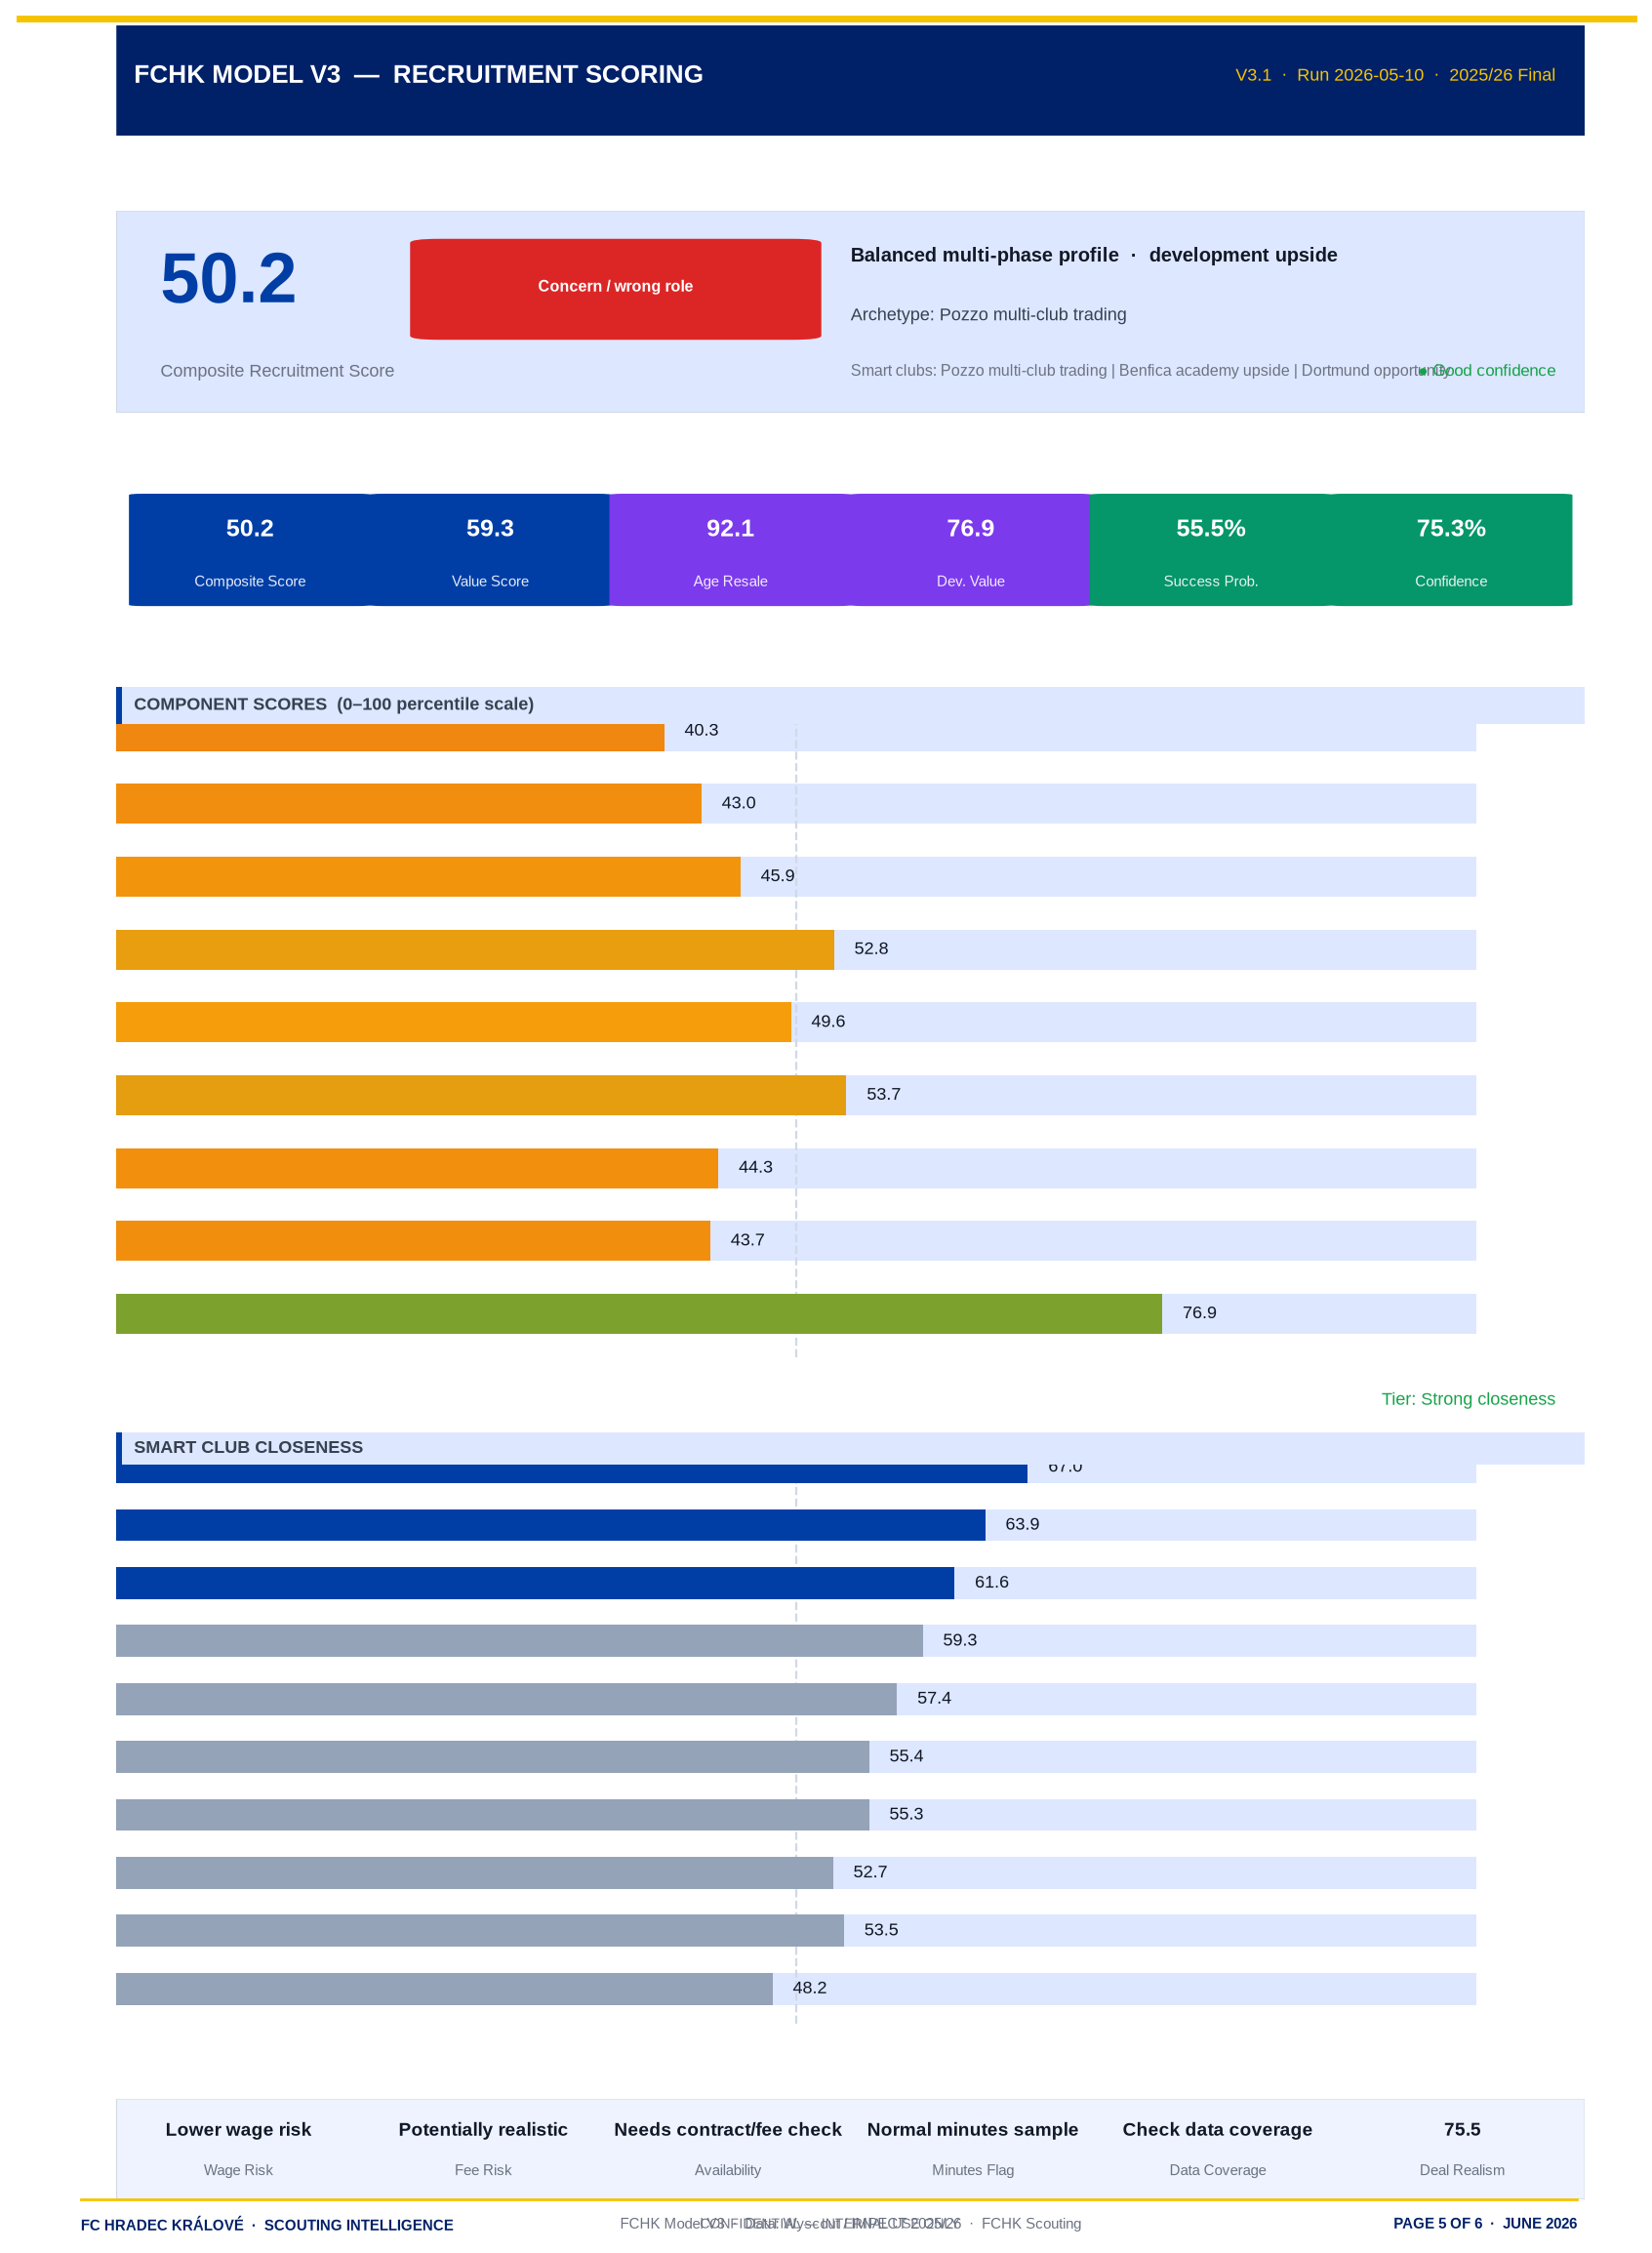
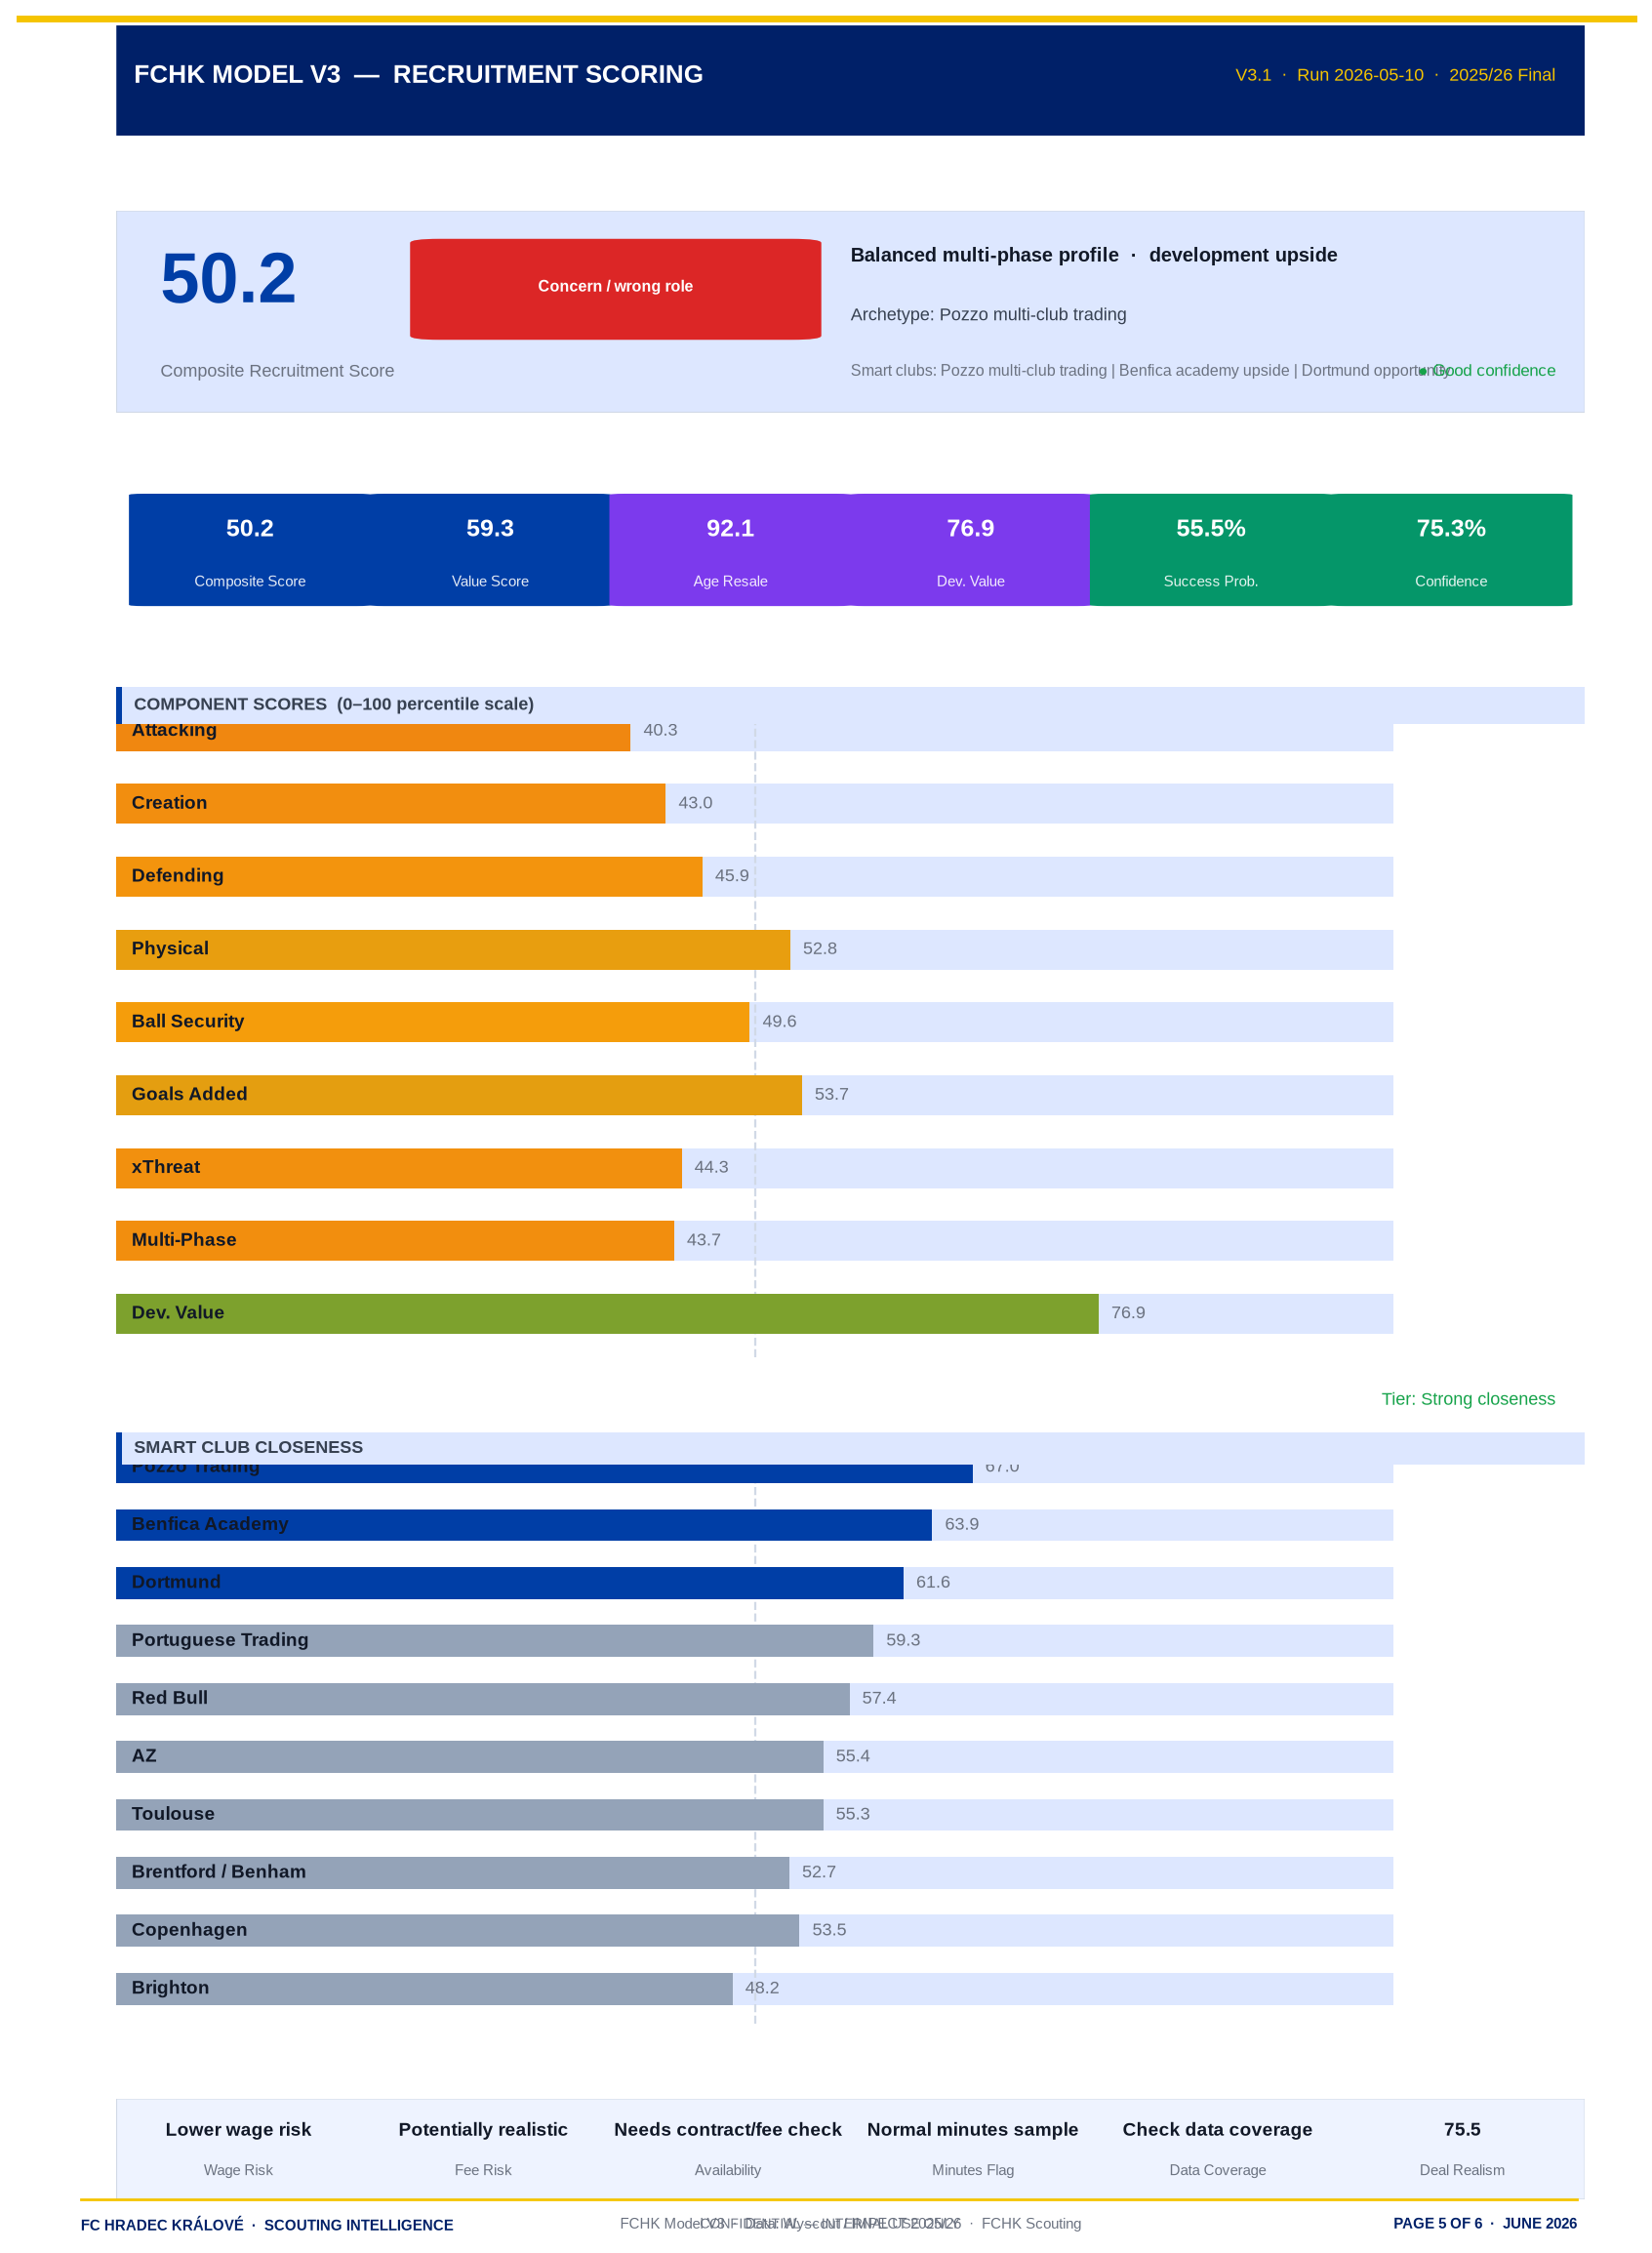
Fix page 5 bar chart labels — draw inside tracks, not as y-tick labels
Labels were rendering as matplotlib y-axis tick labels outside the figure
boundary (left margin 0.06 too narrow). Replace set_yticklabels() with
text() at x=1.2 in data space (inside the background track), fontweight bold.
Score values moved to x=v+1.0. Same fix applied to both Component Scores
and Smart Club Closeness bar charts. xlim extended to 115 to accommodate.

Claude-Session: https://claude.ai/code/session_01AwRaDxaXMKzntafHnAeRgn

diff --git a/build_barat_full_report.py b/build_barat_full_report.py
@@ -812,15 +812,19 @@ def make_page5(model: dict) -> plt.Figure:
     bar_colours = [COMP_CMAP(v / 100) for v in vals]
     for i, (y, v, c) in enumerate(zip(y_pos, vals, bar_colours)):
         ax_comp.barh(y, v, height=bar_h, color=c, zorder=2)
-        ax_comp.text(v + 1.5, y, f"{v:.1f}", va="center", fontsize=6.5, color=TEXT)
+        # Label inside the track (always readable, no margin needed)
+        ax_comp.text(1.2, y, labels[i], va="center", ha="left",
+                     fontsize=7, color=TEXT, zorder=4, fontweight="bold")
+        # Score value at the right end
+        ax_comp.text(v + 1.0, y, f"{v:.1f}", va="center", ha="left",
+                     fontsize=6.5, color=TEXT_DIM, zorder=4)
 
-    ax_comp.set_yticks(y_pos)
-    ax_comp.set_yticklabels(labels, fontsize=7, color=TEXT)
-    ax_comp.set_xlim(0, 108)
+    ax_comp.set_yticks([])
+    ax_comp.set_xlim(0, 115)
     ax_comp.set_ylim(-0.6, n_bars - 0.4)
     ax_comp.axvline(50, color=BORDER, lw=0.8, ls="--", zorder=1)
     ax_comp.tick_params(axis="x", labelsize=6, colors=TEXT_DIM)
-    ax_comp.set_xlabel("Score (0–100)", fontsize=6.5, color=TEXT_DIM)
+    ax_comp.set_xlabel("Score (0–100)  ·  dashed line = average (50)", fontsize=6.5, color=TEXT_DIM)
     for sp in ax_comp.spines.values():
         sp.set_visible(False)
     ax_comp.tick_params(axis="y", length=0)
@@ -847,11 +851,13 @@ def make_page5(model: dict) -> plt.Figure:
     for i, (y, v, (key, lbl)) in enumerate(zip(sc_y, sc_vals, SMART_CLUBS)):
         c = ACCENT if i < 3 else "#94A3B8"
         ax_clubs.barh(y, v, height=bar_h, color=c, zorder=2)
-        ax_clubs.text(v + 1.5, y, f"{v:.1f}", va="center", fontsize=6.5, color=TEXT)
+        ax_clubs.text(1.2, y, sc_labels[i], va="center", ha="left",
+                      fontsize=6.8, color=TEXT, zorder=4, fontweight="bold")
+        ax_clubs.text(v + 1.0, y, f"{v:.1f}", va="center", ha="left",
+                      fontsize=6.5, color=TEXT_DIM, zorder=4)
 
-    ax_clubs.set_yticks(sc_y)
-    ax_clubs.set_yticklabels(sc_labels, fontsize=7, color=TEXT)
-    ax_clubs.set_xlim(0, 108)
+    ax_clubs.set_yticks([])
+    ax_clubs.set_xlim(0, 115)
     ax_clubs.set_ylim(-0.6, sc_n - 0.4)
     ax_clubs.axvline(50, color=BORDER, lw=0.8, ls="--", zorder=1)
     ax_clubs.tick_params(axis="x", labelsize=6, colors=TEXT_DIM)